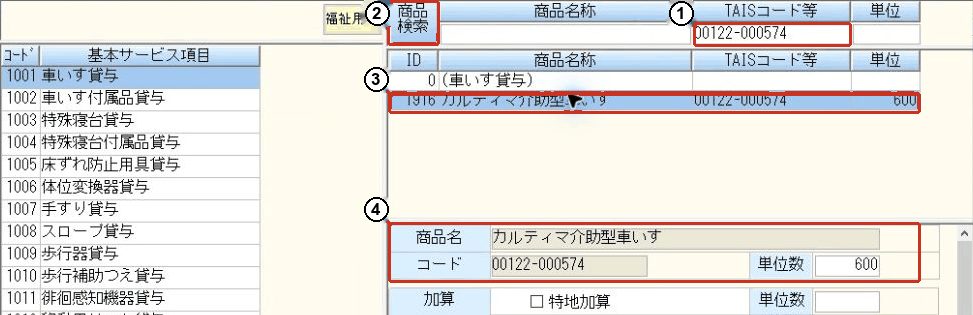
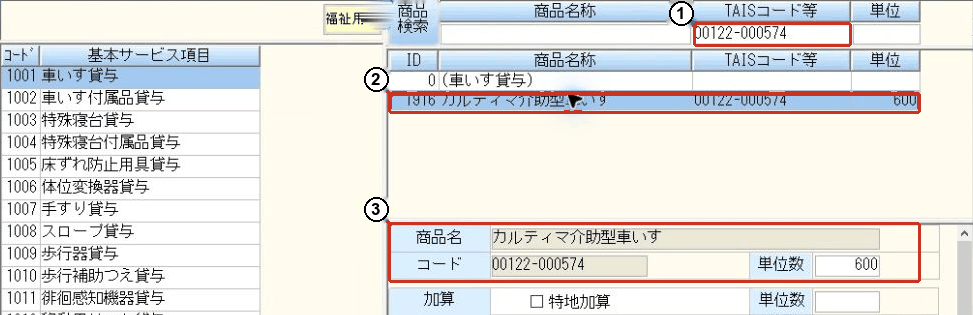
TAISマニュアル：「商品検索」はボタンではないため、コードを入れてEnterで探す説明に直し、画像の印も付け直した

Changed region(s): [[0.37, 0.0, 0.4625, 0.1714], [0.37, 0.2286, 0.4008, 0.2857], [0.37, 0.6571, 0.4008, 0.6857]]

diff --git a/manuals/honobono-tais-touroku/index.html b/manuals/honobono-tais-touroku/index.html
@@ -87,7 +87,7 @@
           <li>利用票を開き、利用者と月を確認します。</li>
           <li><span class="no-c">1</span> <span class="k">行追加</span> を押します。「サービス選択」の画面が出ます。</li>
           <li><span class="no-c">2</span> サービス種別の「介護」にチェックし、右の欄で「福祉用具貸与」を選びます（開いたときは「訪問介護」などになっているので変えます。予防の人は「予防」にチェックし、「予防用具貸与」）。</li>
-          <li><span class="no-c">3</span> 「事業所」の欄（初めは「（未選択）」）で、実際に貸し出す <b>福祉用具の事業所</b> を選びます。右側に <span class="k">商品検索</span> と商品の一覧が出ます。</li>
+          <li><span class="no-c">3</span> 「事業所」の欄（初めは「（未選択）」）で、実際に貸し出す <b>福祉用具の事業所</b> を選びます。右側に「商品名称」「TAISコード等」の入力欄と、商品の一覧が出ます。</li>
         </ol>
         <figure class="pcshot"><a href="images/tais-a1.png" target="_blank" rel="noopener"><img src="images/tais-a1.png" alt="利用票の行追加ボタン" loading="lazy"></a></figure>
         <figure class="pcshot"><a href="images/tais-a2.png" target="_blank" rel="noopener"><img src="images/tais-a2.png" alt="サービス選択の画面。サービス種類と事業所を選ぶ" loading="lazy"></a><figcaption>事業所の番号と名前はぼかしています。</figcaption></figure>
@@ -98,12 +98,11 @@
       <div>
         <h3><span class="n">2</span>TAISコードで商品を探して選ぶ</h3>
         <ol>
-          <li><span class="no-c">1</span> 右側の「TAISコード等」の欄に、資料のコードを入れます（商品名でも探せます）。</li>
-          <li><span class="no-c">2</span> <span class="k">商品検索</span> を押します。</li>
-          <li><span class="no-c">3</span> コードが入っている商品の行をクリックします。</li>
-          <li><span class="no-c">4</span> 下の <b>商品名・コード・単位数</b> が、資料と同じか確認します。</li>
+          <li><span class="no-c">1</span> 右側の「TAISコード等」の欄に資料のコードを入れて、<span class="k">Enter</span> キーを押します（「商品名称」の欄に名前を入れて探すこともできます）。</li>
+          <li><span class="no-c">2</span> 下の一覧に出た、コードが入っている商品の行をクリックします。</li>
+          <li><span class="no-c">3</span> 下の <b>商品名・コード・単位数</b> が、資料と同じか確認します。</li>
         </ol>
-        <figure class="pcshot"><a href="images/tais-a3.png" target="_blank" rel="noopener"><img src="images/tais-a3.png" alt="商品検索の画面" loading="lazy"></a></figure>
+        <figure class="pcshot"><a href="images/tais-a3.png" target="_blank" rel="noopener"><img src="images/tais-a3.png" alt="TAISコード等の欄にコードを入れて商品を探す画面" loading="lazy"></a></figure>
         <div class="box warn"><span class="ttl">⚠ 注意</span>
           <ul>
             <li>「（車いす貸与）」のような <b>コードのない行は選ばない</b> でください。</li>
@@ -158,12 +157,11 @@
       <div>
         <h3><span class="n">2</span>TAISコードで探して選び直す</h3>
         <ol>
-          <li><span class="no-c">1</span> 「TAISコード等」の欄に、資料のコードを入れます。</li>
-          <li><span class="no-c">2</span> <span class="k">商品検索</span> を押します。</li>
-          <li><span class="no-c">3</span> 正しい商品の行をクリックします。</li>
-          <li><span class="no-c">4</span> 下の商品名とコードが変わったことを確認します。<b>単位数</b> も資料と同じか確認します。</li>
+          <li><span class="no-c">1</span> 「TAISコード等」の欄に資料のコードを入れて、<span class="k">Enter</span> キーを押します。</li>
+          <li><span class="no-c">2</span> 下の一覧に出た、正しい商品の行をクリックします。</li>
+          <li><span class="no-c">3</span> 下の商品名とコードが変わったことを確認します。<b>単位数</b> も資料と同じか確認します。</li>
         </ol>
-        <figure class="pcshot"><a href="images/tais-b3.png" target="_blank" rel="noopener"><img src="images/tais-b3.png" alt="修正画面での商品検索" loading="lazy"></a><figcaption>例：一覧は 250 なのに、下の単位数は前の 430 が残っています。</figcaption></figure>
+        <figure class="pcshot"><a href="images/tais-b3.png" target="_blank" rel="noopener"><img src="images/tais-b3.png" alt="修正画面で商品を探す" loading="lazy"></a><figcaption>例：一覧は 250 なのに、下の単位数は前の 430 が残っています。</figcaption></figure>
         <div class="box warn"><span class="ttl">⚠ 単位数は自動で変わらないことがあります</span><p>前の単位数が残ることがあります。資料と合わないときは確定せずに、担当者に確認します。</p></div>
       </div>
     </div>
@@ -259,7 +257,7 @@
         <ol>
           <li><span class="no-c">1</span> 福祉用具マスタに戻ったら 「ID」の見出しを押し、大きい番号が上に来るようにします（小さい順なら、もう一度押す）。</li>
           <li><span class="no-c">2</span> 上のほうにある追加した商品を選び、TAISコード・型番・種目・単位数を資料と見くらべます。</li>
-          <li><span class="k">閉じる</span> でサービス選択に戻り、<a href="#sa">作業 A の手順 2</a> の方法で商品を探して選びます。</li>
+          <li><span class="k">閉じる</span> でサービス選択に戻り、<a href="#sa">作業 A の手順 2</a> の方法（コードを入れて Enter）で商品を探して選びます。</li>
         </ol>
         <figure class="pcshot"><a href="images/tais-c6.png" target="_blank" rel="noopener"><img src="images/tais-c6.png" alt="IDの大きい順にした福祉用具マスタ" loading="lazy"></a></figure>
         <div class="box warn"><span class="ttl">⚠ 注意</span><p>一番上だからといって選ばず、必ずコードで確認します（ほかの人が同じころに登録していることがあります）。商品が出なくても、もう一度追加せず、事業所と種目を確認します。</p></div>
@@ -269,7 +267,7 @@
     <ul class="check">
       <li><label><input type="checkbox" id="cc-1"><span>本当に未登録か確認してから、［取込］→［読込］→［追加］した</span></label></li>
       <li><label><input type="checkbox" id="cc-2"><span>種目と、事業所に確認した単位数を入れて［保存］した</span></label></li>
-      <li><label><input type="checkbox" id="cc-3"><span>作業 A の商品検索で、その商品を選べた</span></label></li>
+      <li><label><input type="checkbox" id="cc-3"><span>作業 A の方法で探して、その商品を選べた</span></label></li>
     </ul>
   </section>
 
